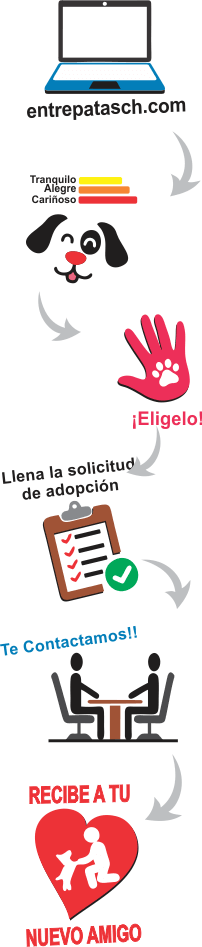
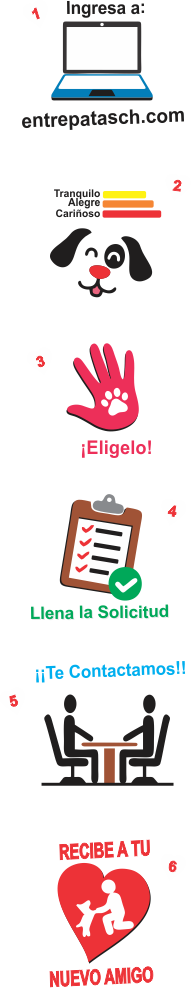
quite sombras en los forms, modifique proceso, weas

diff --git a/src/assets/theme/theme-blue.css b/src/assets/theme/theme-blue.css
@@ -697,6 +697,7 @@ body .ui-autocomplete-panel {
 }
 body .ui-autocomplete-panel .ui-autocomplete-items {
   padding: 0;
+  background: white;
 }
 body .ui-autocomplete-panel .ui-autocomplete-items .ui-autocomplete-list-item {
   margin: 0;
@@ -1603,8 +1604,8 @@ label {
   height: 75px;
   border-radius: 50%;
   border:2px solid white;
-  box-shadow:0 10px 20px -10px rgba(0, 0, 0, 0.56), 
-  0 4px 10px 0px rgba(0, 0, 0, 0.12), 0 8px 5px -5px rgba(0, 0, 0, 0.2);
+  /*box-shadow:0 10px 20px -10px rgba(0, 0, 0, 0.56), */
+  /*0 4px 10px 0px rgba(0, 0, 0, 0.12), 0 8px 5px -5px rgba(0, 0, 0, 0.2);*/
 }
 .img_modal{
   width: 100px;
@@ -1961,11 +1962,11 @@ body .ui-toolbar .ui-toolbar-seperator {
   vertical-align: middle;
   margin: 0 0.5em;
 }
-.hidden-xs-down{
-  display: none;
-}
-.hidden-xs-down2{
+.hidden-xs-down,.hidden-xs-down2{
   display: inline;
+}
+.hidden-xs-down3{
+  display: none;
 }
 @media screen and (min-width: 380px){
     .tit_otros{
@@ -1979,12 +1980,26 @@ body .ui-toolbar .ui-toolbar-seperator {
     .hidden-xs-down{
     display: inline;
   }
-  .hidden-xs-down2{
-    display: none;
-  }
+  
   .img_colabora{
   width: 120px;
   height: 120px;
+  }
+}
+
+@media (max-width: 640px) {
+  body .ui-panelgrid .ui-grid-responsive .ui-grid-row {
+    border: 0 none;
+  }
+  .img_colabora{
+  width: 150px;
+  height: 150px;
+  }
+  .hidden-xs-down2{
+    display: none;
+  }
+  .hidden-xs-down3{
+    display: inline;
   }
 }
 
@@ -2001,15 +2016,6 @@ body .ui-toolbar .ui-toolbar-seperator {
   }
 }
 
-@media (max-width: 640px) {
-  body .ui-panelgrid .ui-grid-responsive .ui-grid-row {
-    border: 0 none;
-  }
-  .img_colabora{
-  width: 150px;
-  height: 150px;
-  }
-}
 
 body .ui-paginator {
   background-color: #ffffff;
@@ -3027,6 +3033,7 @@ body .ui-dialog .ui-dialog-footer {
   padding: 10px 15px;
   text-align: right;
   border-width: 1px 0 0 0;
+  background: white;
 }
 body .ui-dialog .ui-dialog-footer button {
   margin: 0 0.35em 0 0;

diff --git a/src/app/component/proceso/component/proceso.component.html b/src/app/component/proceso/component/proceso.component.html
@@ -28,8 +28,8 @@
 				<img src="assets/layout/images/pro_seguimiento.png" width='85' alt="5. Seguimiento"><br>
 				<b>05<br>SEGUIMIENTO</b>
 			</div> -->
-			<img src="assets/layout/images/procesoo.png" class="hidden-xs-down"><br>
-			<img src="assets/layout/images/procesoo2.png" class="hidden-xs-down2"><br>
+			<img src="assets/layout/images/procesoo.png" class="hidden-xs-down2"><br>
+			<img src="assets/layout/images/procesoo2.png" class="hidden-xs-down3"><br>
 		</div>
 
 			<div class="ui-g-12 mt-3 centrar">

diff --git a/src/app/component/evento/proximos-eventos/component/eventoproximo.component.scss b/src/app/component/evento/proximos-eventos/component/eventoproximo.component.scss
@@ -5,7 +5,7 @@
 .card {
 	text-align: center;
 	border: none;
-    box-shadow: 0 10px 15px -12px rgba(0, 0, 0, 0.56), 0 4px 5px 0px rgba(0, 0, 0, 0.12), 0 8px 7px -5px rgba(0, 0, 0, 0.2);
+    // box-shadow: 0 10px 15px -12px rgba(0, 0, 0, 0.56), 0 4px 5px 0px rgba(0, 0, 0, 0.12), 0 8px 7px -5px rgba(0, 0, 0, 0.2);
     transition: all .12s ease-out;
     position: relative;
     display: -ms-flexbox;

diff --git a/src/app/component/login/component/login.component.scss b/src/app/component/login/component/login.component.scss
@@ -6,7 +6,7 @@
     padding: 5px 20px;
     border-top: 5px solid #0D47A1;
     border-radius: 5px;
-    box-shadow: 0 5px 10px rgba(0,0,0,.3);
+    // box-shadow: 0 5px 10px rgba(0,0,0,.3);
     background:#fff;
 }
 .formulario img{

diff --git a/src/app/component/conocenos/component/conocenos.component.scss b/src/app/component/conocenos/component/conocenos.component.scss
@@ -77,8 +77,8 @@
 
 @media screen and (min-width: 1024px){
     .fondo_principal p{
-    width: 80vw;
-    margin:20em 7%;
+    width: 50vw;
+    margin:20em 25%;
     }
     .nos_tarjeta img{
     width: 180px;
